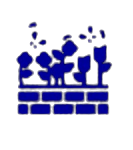
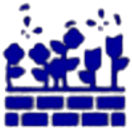
v0.157.9 se redimenciona tamaño de imagenes en segmento de detalles de cada hohar

diff --git a/assets/css/cambios.css b/assets/css/cambios.css
@@ -961,3 +961,14 @@ transparente:hover{-webkit-transform: rotate(360deg);transform: rotate(360deg);
 .flexslider:hover .flex-direction-nav .flex-next:hover{
     opacity: 1;
 }
+.mergen_lateral_vw1{
+    margin-left: 1vw;
+    margin-right: 1vw;
+}
+.img_detalles{
+    height: 80px;
+    margin-top: 5vh
+}
+.sin_redondeo_borde{
+    border-radius:0px;
+}

diff --git a/templates/detalles/_detalles_hogar_general.php b/templates/detalles/_detalles_hogar_general.php
@@ -71,66 +71,83 @@ if($wt_tipo_inmueble > 0){
 <div class="col-md-12 contenedor_centrado color_blanco">
     <ul class="ul_img_hogar">
         <?php if($tipo_hogar_id != 3){ ?>
-            <li  class="li_img_hogar ">
+            <li  class="li_img_hogar mergen_lateral_vw1" >
                 <div>
-                    <img id="imagen_slider" src="<?php echo $generales->url_base; ?>assets/img/iconos_hogar_detalles/habitacion.png" alt="Lote itze" height="80%"/>
-                    <br>
+                    <div class="img_detalles">
+                    <img id="imagen_slider sin_redondeo_borde" src="<?php echo $generales->url_base; ?>assets/img/iconos_hogar_detalles/habitacion.png" alt="Lote itze" height="80%"/>
+                    </div>
                     <h3 class="texto_icono_hogar"><?php echo $recamara_hogar; ?></h3>
                 </div>
 
             </li>
-            <li  class="li_img_hogar ">
+            <li  class="li_img_hogar mergen_lateral_vw1" >
                 <div>
+                    <div class="img_detalles">
                     <img id="imagen_slider" src="<?php echo $generales->url_base; ?>assets/img/iconos_hogar_detalles/baño.png" alt="Lote itze" height="80%"/>
-                    <h3 class="texto_icono_hogar"><?php echo $banio_hogar; ?></h3>
+                    </div>
+                        <h3 class="texto_icono_hogar"><?php echo $banio_hogar; ?></h3>
                 </div>
             </li>
-            <li  class="li_img_hogar ">
+            <li  class="li_img_hogar mergen_lateral_vw1" >
                 <div>
-                    <img id="imagen_slider" src="<?php echo $generales->url_base; ?>assets/img/iconos_hogar_detalles/cochera.png" alt="Lote itze" height="80%"/>
-                    <h3 class="texto_icono_hogar"><?php echo $estacionamiento_hogar; ?></h3>
+                    <div class="img_detalles">
+                    <img id="imagen_slider " src="<?php echo $generales->url_base; ?>assets/img/iconos_hogar_detalles/cochera.png" alt="Lote itze" height="80%"/>
+                    </div>
+                        <h3 class="texto_icono_hogar"><?php echo $estacionamiento_hogar; ?></h3>
                 </div>
             </li>
-            <li  class="li_img_hogar ">
+            <li  class="li_img_hogar mergen_lateral_vw1" style="height: 90px;">
                 <div>
-                    <img id="imagen_slider" src="<?php echo $generales->url_base; ?>assets/img/iconos_hogar_detalles/patio.png" alt="Lote itze" height="80%"/>
-                    <br>
+                    <div class="img_detalles">
+                    <img id="imagen_slider sin_redondeo_borde" src="<?php echo $generales->url_base; ?>assets/img/iconos_hogar_detalles/patio.png" alt="Lote itze" height="80%"/>
+                    </div>
                     <h3 class="texto_icono_hogar"><?php echo  $patio_hogar; ?></h3>
                 </div>
             </li>
-            <li  class="li_img_hogar ">
+            <li  class="li_img_hogar mergen_lateral_vw1" >
                 <div>
+                    <div class="img_detalles">
                     <img id="imagen_slider" src="<?php echo $generales->url_base; ?>assets/img/iconos_hogar_detalles/tipo_hogar.png" alt="Lote itze" height="80%"/>
-                    <br>
+                    </div>
                     <h3 class="texto_icono_hogar"><?php echo $tipo_hogar." ".$niveles_label." ".$niveles_hogar; ?></h3>
                 </div>
             </li>
-            <li  class="li_img_hogar ">
+            <li  class="li_img_hogar mergen_lateral_vw1" >
                 <div>
-                    <img id="imagen_slider" src="<?php echo $generales->url_base; ?>assets/img/iconos_hogar_detalles/construccion.png" alt="Lote itze" height="80%"/>
-                    <br>
+                    <div class="img_detalles">
+                    <img id="imagen_slider sin_redondeo_borde" src="<?php echo $generales->url_base; ?>assets/img/iconos_hogar_detalles/construccion.png" alt="Lote itze" height="80%"/>
+                    </div>
                     <h3 class="texto_icono_hogar"><?php echo $construccion_hogar; ?></h3>
                 </div>
             </li>
         <?php } ?>
-        <li  class="li_img_hogar ">
+        <li  class="li_img_hogar mergen_lateral_vw1" >
             <div>
-                <img id="imagen_slider" src="<?php echo $generales->url_base; ?>assets/img/iconos_hogar_detalles/terreno.png" alt="Lote itze" height="80%"/>
-                <h3 class="texto_icono_hogar"><?php echo $terreno_hogar; ?></h3>
+                <div class="img_detalles">
+                    <img id="imagen_slider"    src="<?php echo $generales->url_base; ?>assets/img/iconos_hogar_detalles/terreno.png" alt="Lote itze" height="80%"/>
+                </div>
+
+                <div style="float: left">
+                    <h3 class="texto_icono_hogar"><?php echo $terreno_hogar; ?></h3>
+                </div>
+
             </div>
         </li>
         <?php if($tipo_hogar_id == 3){ ?>
-            <li  class="li_img_hogar ">
+            <li  class="li_img_hogar mergen_lateral_vw1">
                 <div>
-                    <img id="imagen_slider" style="width: 50%; height: 50%; border-radius:0px; margin-top: 2vh" src="<?php echo $generales->url_base; ?>assets/img/iconos_hogar_detalles/dimencion.png" alt="Lote itze" height="80%"/>
-                    <br>
+                    <div class="img_detalles" >
+                        <img id="imagen_slider"  src="<?php echo $generales->url_base; ?>assets/img/iconos_hogar_detalles/dimencion.png" alt="Lote itze" height="80%"/>
+                    </div>
+
                     <h3 class="texto_icono_hogar"><?php echo $construccion_hogar; ?></h3>
                 </div>
             </li>
-            <li  class="li_img_hogar " style="margin-left: 3vw;">
+            <li  class="li_img_hogar mergen_lateral_vw1">
                 <div>
+                    <div class="img_detalles" >
                     <img id="imagen_slider" src="<?php echo $generales->url_base; ?>assets/img/iconos_hogar_detalles/tipo_hogar.png" alt="Lote itze" height="80%"/>
-
+                    </div>
                     <h3 class="texto_icono_hogar"><?php echo $tipo_hogar; ?></h3>
                 </div>
             </li>
